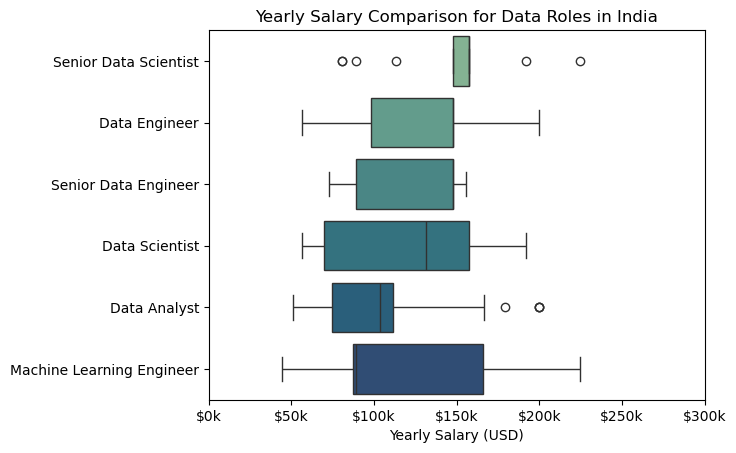
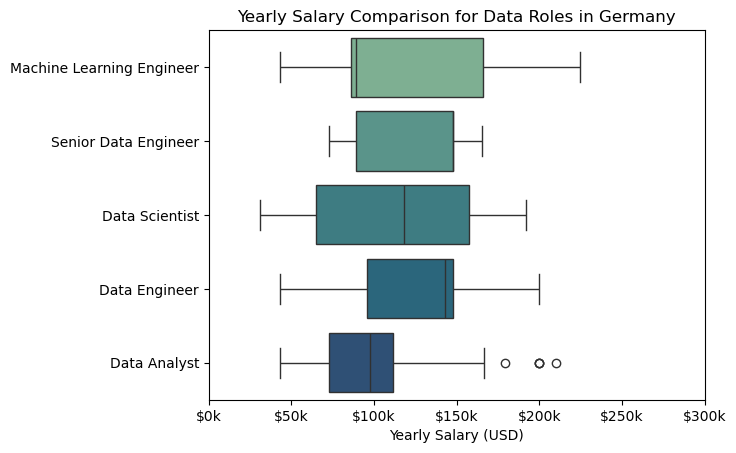
updated insights on new data

diff --git a/README.md b/README.md
@@ -85,10 +85,15 @@ fig.tight_layout()
 
 ### Insights
 
-- Python is a versatile skill, highly demanded across all three roles, but most prominently for Data Scientists (72%) and Data Engineers (65%)
-- SQL is the most requested skill for Data Analysts and also the second most requested for Data Engineers and Data Scientists
+- SQL is the foundation: It is the most requested skill for Data Analysts (41%) and the second most for Data Engineers (48%), making it essential for entry into the field.
+- Python dominance in Data Science: 61% of Data Scientist job postings require Python, significantly higher than the 32% for SQL and 26% for R.
+- Cloud for Engineers: Data Engineering roles prioritize Azure (31%) and AWS (24%) much more than Analyst or Scientist roles, reflecting the focus on infrastructure.
+
 
 ## 2. How are in-demand skills trending for Data Engineers?
+
+To find how skills are trending in 2023 for Data Analysts, I filtered data analyst positions and grouped the skills by the month of the job postings. This got me the top 5 skills of data analysts by month, showing how popular skills were throughout 2023.
+
 
 ### Visualize Data
 ```python
@@ -123,15 +128,16 @@ for i in range(5):
 
 ### Insights 
 
-- SQL and python remain the most consistently demanded skills throughout the year, although python shows a gradual decrease in demand
-- azure shows a relatively stable demand throughout the year and is after python and sql the third most demanded skill over almost the whole year
-- aws and spark also count towards the most demanded job skills for Data Engineers, even though they both show a gradual decrease over the year
+- Core stability: Python and SQL consistently remain the most sought-after skills throughout 2024, both ending the year near the 60% mark.
+- Azure on the rise: The demand for Azure saw a significant upward trend from April to September, peaking above 40% before a slight year-end dip.
+- AWS decline: In contrast to Azure's growth, AWS saw a sharp decline in popularity after July, dropping from roughly 23% to around 15% by December.
 
 ## 3. How well do jobs and skills pay for Data Analysts?
 
-### Salary Analysis
+To identify the highest-paying roles and skills, I only got jobs in the United States and looked at their median salary. But first I looked at the salary distributions of common data jobs like Data Scientist, Data Engineer, and Data Analyst, to get an idea of which jobs are paid the most. 
 
-#### Visualize Data 
+
+### Visualize Data 
 
 ````python
 sns.boxplot(data=job_ger_top5, x='salary_year_avg', y='job_title_short', order=job_order, palette='crest')
@@ -143,12 +149,22 @@ plt.gca().xaxis.set_major_formatter(plt.FuncFormatter(lambda x, pos: f'${int(x/1
 plt.show()
 ````
 
-#### Results
+### Results
 
 ![img3](images/boxplots_most_popular_jobs.png) 
 
-### Highest Paid and Most Popular Skills for Data Analysts
-#### Visualize Data
+
+### Insights
+
+- ML Engineers lead the pack: Machine Learning Engineers have the highest upper-quartile potential, with salaries stretching toward $225k.
+- Seniority doesn't guarantee the highest peak: While Senior Data Scientists have a high median (around $150k), the spread of Data Scientist roles shows more extreme high-end outliers.
+- Analyst Floor: Data Analysts have the lowest median salary (approx. $100k) and the tightest distribution, indicating a more standardized and lower-ceiling pay scale compared to Engineering roles.
+
+## 4. Highest Paid and Most Popular Skills for Data Analysts
+
+Next, I narrowed my analysis and focused only on data analyst roles. I looked at the highest-paid skills and the most in-demand skills. I used two bar charts to showcase these.
+
+### Visualize Data
 
 ````python
 # Top 10 Highest Paid Skills for Data Analysts (Germany)
@@ -160,18 +176,21 @@ ax[0].set_xlabel('Median Salary (USD)')
 ax[0].set_xlim(ax[0].get_xlim())
 ax[0].xaxis.set_major_formatter(plt.FuncFormatter(lambda x, _: f'${int(x/1000)}K'))
 ````
+### Results
 
 ![img4](images/top10_most_pop_and_best_paid_skills.png)
 
-#### Insights
+### Insights
 
-- Senior and engineering roles pay more: Senior Data Scientists and (Senior) Data Engineers earn significantly more than Data Analysts; ML Engineers also show the widest salary range.
-- Infrastructure and cloud skills command a premium: Terraform, BigQuery, Redshift, Kafka, and GCP are among the highest-paid skills, outperforming traditional analytics tools.
-- Popularity does not equal pay: Python, Pandas, Excel, and SQL are the most common skills, but their median salaries are lower than those of specialized big-data and cloud skills.
+- Niche pays better: The highest-paid skills (MySQL at $200k+, GitHub, NoSQL) are not the same as the most popular skills, indicating that specialized technical knowledge commands a premium.
+- The "Popularity Gap": The most popular skills like Spark and Python have median salaries around $100k, which is nearly 50% lower than the top-tier technical niches.
+- Legacy tools pay less: General-purpose tools like "Go" and "Looker" sit at the bottom of the popular salary list, falling significantly below the $75k mark.
 
 ## What is the most optimal skill to learn for Data Analyst?
 
-#### Visualize Data
+To identify the most optimal skills to learn ( the ones that are the highest paid and highest in demand) I calculated the percent of skill demand and the median salary of these skills. To easily identify which are the most optimal skills to learn. 
+
+### Visualize Data
 
 ````python
 from adjustText import adjust_text
@@ -184,14 +203,15 @@ sns.scatterplot(
 )
 ````
 
+### Result
+
 ![img5](images/most_optimal_skill_to_learn.png)
 
-#### Insights
-- High Demand vs. High Pay: SQL and Python are the most frequently required skills, appearing in approximately 38% to 50% of job postings, though they offer mid-range median salaries compared to niche technologies.
+### Insights
 
-- Lucrative Niche Skills: Tools like GitHub and GCP (Google Cloud Platform) represent "high-value" niches; they appear in a smaller percentage of jobs (under 10%) but are associated with the highest median salaries, reaching up to $200k.
-
-- Dominant Toolsets: Analyst tools like Tableau and Excel maintain a strong presence in the market (between 15% and 30%), serving as a middle ground with stable demand and salaries around the $100k mark.
+- High demand & High pay: Python and SQL are the most "optimal" because they sit in the top right quadrant—high market demand (40%+) and high median salaries ($100k+).
+- The Library Advantage: "Pandas" and "Spark" offer the highest median yearly salaries (exceeding $105k) despite appearing in fewer than 15% of job postings.
+- Tool Oversaturation: Analyst tools like Excel and Power BI are common in jobs but generally result in lower median salaries compared to programming-heavy skills.
 
 # What I Learned
 
